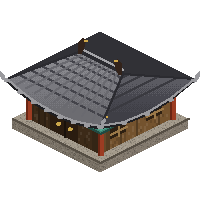
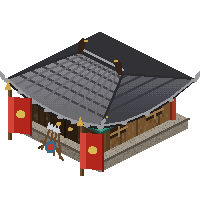
Edificios de clase: decoración temática (estandartes/estelas/tambores)
Hook cfg.decor en el generador (DECOR_HALL): props del patio frontal dibujados
tras el tejado, anclados en coords de huella y respetando la cara de la puerta.
- 校場: estandartes de guerra flanqueando + panoplia de armas (lanzas+escudo).
- 太學: estelas de piedra inscritas + placa dorada sobre la puerta.
- 官署: tambores de audiencia sobre caballete + placa.
Regenerados los 12 PNG; meta sin cambios. SPRITE_VER 31, hac-iso.js?v=59.

Changed region(s): [[0.39, 0.5644, 0.54, 0.8911], [0.03, 0.3861, 0.18, 0.7129], [0.18, 0.5941, 0.33, 0.802]]

diff --git a/tools/gen-iso-sprites.js b/tools/gen-iso-sprites.js
@@ -411,6 +411,10 @@ function drawBuilding(cfg, layer) {
     });
   }
   if (cfg.stairs && wantBase) balustrade();
+  // Decoración temática (edificios de clase): props del patio frontal, al final.
+  if (wantBody && cfg.decor && DECOR_HALL[cfg.decor]) {
+    DECOR_HALL[cfg.decor](buf, P, { w, h, baseH, bodyH, roofH, door: cfg.door });
+  }
   return { buf, ox: OX, oy: OY };
 }
 
@@ -440,9 +444,9 @@ const EDIFICIOS = [
   { id:'gran-recinto',     w:5, h:8, roof:'#c43c1a', baseH:10, bodyH:24, roofH:20, stairs:true, tier0Ins:0.55, tierIns:0.5,
     tiers:[{bodyH:14,roofH:13},{bodyH:11,roofH:11}] },
   // ── Edificios de CLASE (tareas restringidas a la aptitud del dominio) ────
-  { id:'instruccion',      w:3, h:3, roof:'#4a4a52', baseH:5, bodyH:15, roofH:13 },                                   // 校場 militar (techo de hierro/pizarra)
-  { id:'academia',         w:3, h:3, roof:'#3a7a4a', baseH:5, bodyH:16, roofH:13, stories:true, bodyH2:9, roofH2:11 }, // 太學 cultural (teja vidriada verde)
-  { id:'cancilleria',      w:3, h:3, roof:'#2f5a86', baseH:6, bodyH:16, roofH:14 }                                     // 官署 administrativo (teja vidriada azul)
+  { id:'instruccion',      w:3, h:3, roof:'#4a4a52', baseH:5, bodyH:15, roofH:13, decor:'instruccion' },                                   // 校場 militar (techo de hierro/pizarra)
+  { id:'academia',         w:3, h:3, roof:'#3a7a4a', baseH:5, bodyH:16, roofH:13, stories:true, bodyH2:9, roofH2:11, decor:'academia' },   // 太學 cultural (teja vidriada verde)
+  { id:'cancilleria',      w:3, h:3, roof:'#2f5a86', baseH:6, bodyH:16, roofH:14, decor:'cancilleria' }                                    // 官署 administrativo (teja vidriada azul)
 ];
 
 // ── Compuestos: L, U y anillo (alas rectangulares unidas en escuadra) ─────
@@ -561,6 +565,101 @@ const DECOR = [
       lineP(buf,[ap[0],ap[1]],[ap[0],ap[1]-4],'#d0a84a'); fillEllipse(buf,ap[0],ap[1]-5,1.4,1.4,'#e8c24a');
     } }
 ];
+
+// ── Decoración TEMÁTICA de los edificios de clase (校場/太學/官署) ──────────
+// Se dibuja DENTRO del lienzo del edificio, en el PATIO frontal (sobre el suelo,
+// z=0), tras el cuerpo+tejado. Respeta la cara de la puerta: rot0 puerta +x
+// (frente este), rot1 puerta +y (frente sur); en las "traseras" (door=null) se
+// coloca en el frente sur, que igualmente da a cámara. Anclado en coords de
+// huella → cuadra con la rotación. Helpers globales: fillPoly/lineP/fillEllipse.
+function frontInfo(ctx) {
+  const { w, h, door } = ctx;
+  if (door === 'x') return { face: 'E', flanks: [[w - 1, 0], [w - 1, h - 1]], out: [0.55, 0], cx: w - 1, cy: (h - 1) / 2 };
+  return { face: 'S', flanks: [[0, h - 1], [w - 1, h - 1]], out: [0, 0.55], cx: (w - 1) / 2, cy: h - 1 };  // 'y' y null
+}
+// Prisma pequeño en (gx,gy) con radio r entre z0..z1.
+function pcube(buf, P, gx, gy, r, z0, z1, cT, cL, cR) {
+  fillPoly(buf, [P(gx - r, gy + r, z0), P(gx + r, gy + r, z0), P(gx + r, gy + r, z1), P(gx - r, gy + r, z1)], cL);
+  fillPoly(buf, [P(gx + r, gy + r, z0), P(gx + r, gy - r, z0), P(gx + r, gy - r, z1), P(gx + r, gy + r, z1)], cR);
+  fillPoly(buf, [P(gx - r, gy - r, z1), P(gx + r, gy - r, z1), P(gx + r, gy + r, z1), P(gx - r, gy + r, z1)], cT);
+}
+// Estandarte de guerra (asta + pendón rojo colgante + punta dorada).
+function warBanner(buf, P, gx, gy, topZ) {
+  const pole = '#6a5030', poleD = '#46341e', cloth = '#b2261b', clothD = '#7e1810', clothL = '#d0473a';
+  lineP(buf, P(gx, gy, 0), P(gx, gy, topZ), pole);
+  lineP(buf, [P(gx, gy, 0)[0] + 1, P(gx, gy, 0)[1]], [P(gx, gy, topZ)[0] + 1, P(gx, gy, topZ)[1]], poleD);
+  const tip = P(gx, gy, topZ); fillPoly(buf, [[tip[0], tip[1] - 5], [tip[0] - 2, tip[1]], [tip[0] + 2, tip[1]]], '#d0a84a');
+  const a = P(gx, gy, topZ - 3), x = a[0], y0 = a[1];
+  fillPoly(buf, [[x, y0], [x + 11, y0 + 1], [x + 11, y0 + 19], [x, y0 + 18]], cloth);
+  fillPoly(buf, [[x, y0], [x + 3, y0 + 0.4], [x + 3, y0 + 18.4], [x, y0 + 18]], clothL);
+  lineP(buf, [x + 11, y0 + 1], [x + 11, y0 + 19], clothD);
+  fillEllipse(buf, x + 6, y0 + 9, 2, 2, '#d8b850');
+}
+// Panoplia: caballete de madera con lanzas y un escudo (兵器架).
+function weaponRack(buf, P, gx, gy, face) {
+  const wd = '#6a4a2a', wdD = '#46301a', steel = '#cbd0d6', shield = '#3a6a8a', shieldR = '#c0392b';
+  const along = face === 'E' ? ([d, z]) => P(gx, gy + d, z) : ([d, z]) => P(gx + d, gy, z);  // el caballete corre por la cara
+  lineP(buf, along([-0.34, 0]), along([0, 6.5]), wdD); lineP(buf, along([0.34, 0]), along([0, 6.5]), wd);  // patas en A
+  lineP(buf, along([-0.28, 4]), along([0.28, 4]), wd);                                                      // travesaño
+  [-0.26, -0.09, 0.08, 0.25].forEach(d => { const b = along([d * 0.5 + 0.1, 12]); lineP(buf, along([d, 0]), b, wd);
+    fillPoly(buf, [[b[0], b[1] - 4], [b[0] - 1.3, b[1]], [b[0] + 1.3, b[1]]], steel); });                   // lanzas
+  const sc = along([0, 3.2]); fillEllipse(buf, sc[0], sc[1], 2.6, 3, shield); fillEllipse(buf, sc[0], sc[1], 1.3, 1.6, shieldR);
+}
+// Estela de piedra inscrita (石碑): pedestal + losa con panel de inscripción.
+function stele(buf, P, gx, gy, topZ) {
+  const st = '#aaa59b', stL = '#c8c3b7', stD = '#747064', ink = '#3a3e38';
+  pcube(buf, P, gx, gy, 0.24, 0, 2.4, stL, stD, st);                // pedestal ancho
+  pcube(buf, P, gx, gy, 0.13, 2.4, topZ, stL, stD, st);             // losa
+  const a = P(gx + 0.13, gy + 0.13, topZ - 1.6), b = P(gx + 0.13, gy + 0.13, 3.4);  // strip vertical (cara a cámara)
+  fillPoly(buf, [[a[0] - 1.5, a[1]], [a[0] + 1.5, a[1]], [b[0] + 1.5, b[1]], [b[0] - 1.5, b[1]]], ink);  // panel inscrito
+  for (let k = 0; k < 4; k++) px(buf, Math.round(a[0]), Math.round(a[1] + (b[1] - a[1]) * (k + 1) / 5), hexToRgb(stL), 210);
+  const cap = P(gx, gy, topZ); fillEllipse(buf, cap[0], cap[1] - 0.4, 2, 1.2, stL);                       // remate redondeado
+}
+// Tambor de audiencia sobre caballete en X (鼓): cilindro rojo con tachones.
+function audienceDrum(buf, P, gx, gy) {
+  const wd = '#7a4a2a', wdD = '#4e2e18', red = '#b42a1c', hide = '#ead8b0';
+  lineP(buf, P(gx - 0.26, gy, 0), P(gx + 0.16, gy, 7), wdD);        // caballete en X
+  lineP(buf, P(gx + 0.26, gy, 0), P(gx - 0.16, gy, 7), wd);
+  lineP(buf, P(gx - 0.22, gy, 0), P(gx + 0.22, gy, 0), wdD);        // travesaño de pie
+  const c = P(gx, gy, 8.5);                                         // tambor apoyado en la X
+  fillEllipse(buf, c[0], c[1], 4.2, 4.4, '#8a1f14');               // sombra/canto
+  fillEllipse(buf, c[0] - 0.5, c[1] - 0.5, 3.6, 3.8, red);          // cuerpo
+  fillEllipse(buf, c[0] - 1.2, c[1] - 1.2, 2, 2.2, '#cf4030');      // brillo
+  for (let k = 0; k < 8; k++) { const an = k / 8 * 6.2832; px(buf, Math.round(c[0] + Math.cos(an) * 3.2), Math.round(c[1] + Math.sin(an) * 3.4), hexToRgb('#e8c24a'), 255); }
+  fillEllipse(buf, c[0] + 2.5, c[1], 1.1, 3.1, hide);              // parche lateral del parche
+  lineP(buf, P(gx, gy, 12.7), P(gx, gy, 14.5), wdD); fillEllipse(buf, P(gx, gy, 15)[0], P(gx, gy, 15)[1], 1, 1, '#d8b24a'); // remate
+}
+// Placa horizontal sobre la puerta (匾額): tablero oscuro con marco dorado.
+function plaque(buf, P, ctx, color) {
+  const fi = frontInfo(ctx), z0 = ctx.baseH + ctx.bodyH * 0.62, z1 = z0 + 2.6, dark2 = '#2a1c12', gold = '#d8b24a';
+  const pts = fi.face === 'E'
+    ? [P(ctx.w - 1, fi.cy - 0.5, z0), P(ctx.w - 1, fi.cy + 0.5, z0), P(ctx.w - 1, fi.cy + 0.5, z1), P(ctx.w - 1, fi.cy - 0.5, z1)]
+    : [P(fi.cx - 0.5, ctx.h - 1, z0), P(fi.cx + 0.5, ctx.h - 1, z0), P(fi.cx + 0.5, ctx.h - 1, z1), P(fi.cx - 0.5, ctx.h - 1, z1)];
+  fillPoly(buf, pts, color || dark2);
+  lineP(buf, pts[0], pts[1], gold); lineP(buf, pts[2], pts[3], gold);
+  const mid = [(pts[0][0] + pts[1][0]) / 2, (pts[0][1] + pts[1][1]) / 2 - 1.3];
+  for (let k = -1; k <= 1; k++) px(buf, Math.round(mid[0] + k * 3), Math.round(mid[1]), hexToRgb(gold), 230);
+}
+const DECOR_HALL = {
+  // 校場: estandartes de guerra flanqueando + panoplia de armas en el frente.
+  instruccion: (buf, P, ctx) => {
+    const fi = frontInfo(ctx);
+    fi.flanks.forEach(([gx, gy]) => warBanner(buf, P, gx + fi.out[0], gy + fi.out[1], ctx.baseH + ctx.bodyH + 4));
+    weaponRack(buf, P, fi.cx + fi.out[0] * 0.7, fi.cy + fi.out[1] * 0.7, fi.face);
+  },
+  // 太學: estelas de piedra inscritas flanqueando + placa sobre la puerta.
+  academia: (buf, P, ctx) => {
+    const fi = frontInfo(ctx);
+    fi.flanks.forEach(([gx, gy]) => stele(buf, P, gx + fi.out[0], gy + fi.out[1], ctx.baseH + 10));
+    plaque(buf, P, ctx, '#1f3a2a');
+  },
+  // 官署: tambores de audiencia flanqueando + placa sobre la puerta.
+  cancilleria: (buf, P, ctx) => {
+    const fi = frontInfo(ctx);
+    fi.flanks.forEach(([gx, gy]) => audienceDrum(buf, P, gx + fi.out[0], gy + fi.out[1]));
+    plaque(buf, P, ctx, '#1d2c44');
+  },
+};
 
 // ── Jardines ───────────────────────────────────────────────────────────────
 // Tiles PLANOS (sin tejado): suelo/agua que llena toda la huella + vegetación

diff --git a/assets/js/hac-iso.js b/assets/js/hac-iso.js
@@ -20,7 +20,7 @@ const HacIso = (function () {
   const TOP_MARGIN = 132;             // hueco arriba para edificios altos, murallas y torres
   const PAD_X = 40;                   // margen lateral para murallas y paseo de ronda
   const SPRITE_BASE = 'assets/img/iso/';
-  const SPRITE_VER = '30';  // súbelo al regenerar los PNG (cache-busting)
+  const SPRITE_VER = '31';  // súbelo al regenerar los PNG (cache-busting)
 
   // ── Color helpers (para el placeholder) ─────────────────────────────────
   const { hexToRgb, clamp255: cl } = HacUtil;

diff --git a/hacienda.html b/hacienda.html
@@ -42,7 +42,7 @@
 <script src="assets/js/iso-sprites-meta.js?v=17"></script>
 <script src="assets/js/iso-sprites-extra.js?v=6"></script>
 <script src="assets/js/hac-flora.js?v=1"></script>
-<script src="assets/js/hac-iso.js?v=58"></script>
+<script src="assets/js/hac-iso.js?v=59"></script>
 <script src="assets/js/hac-dialog.js?v=2"></script>
 <script src="assets/js/hac-folk.js?v=29"></script>
 <script src="assets/js/hac-snapshots.js?v=1"></script>

diff --git a/haciendas.html b/haciendas.html
@@ -83,7 +83,7 @@
 <script src="assets/js/iso-sprites-meta.js?v=17"></script>
 <script src="assets/js/iso-sprites-extra.js?v=6"></script>
 <script src="assets/js/hac-flora.js?v=1"></script>
-<script src="assets/js/hac-iso.js?v=58"></script>
+<script src="assets/js/hac-iso.js?v=59"></script>
 <script src="assets/js/hac-dialog.js?v=2"></script>
 <script src="assets/js/hac-folk.js?v=29"></script>
 <script src="assets/js/haciendas.js?v=2"></script>
